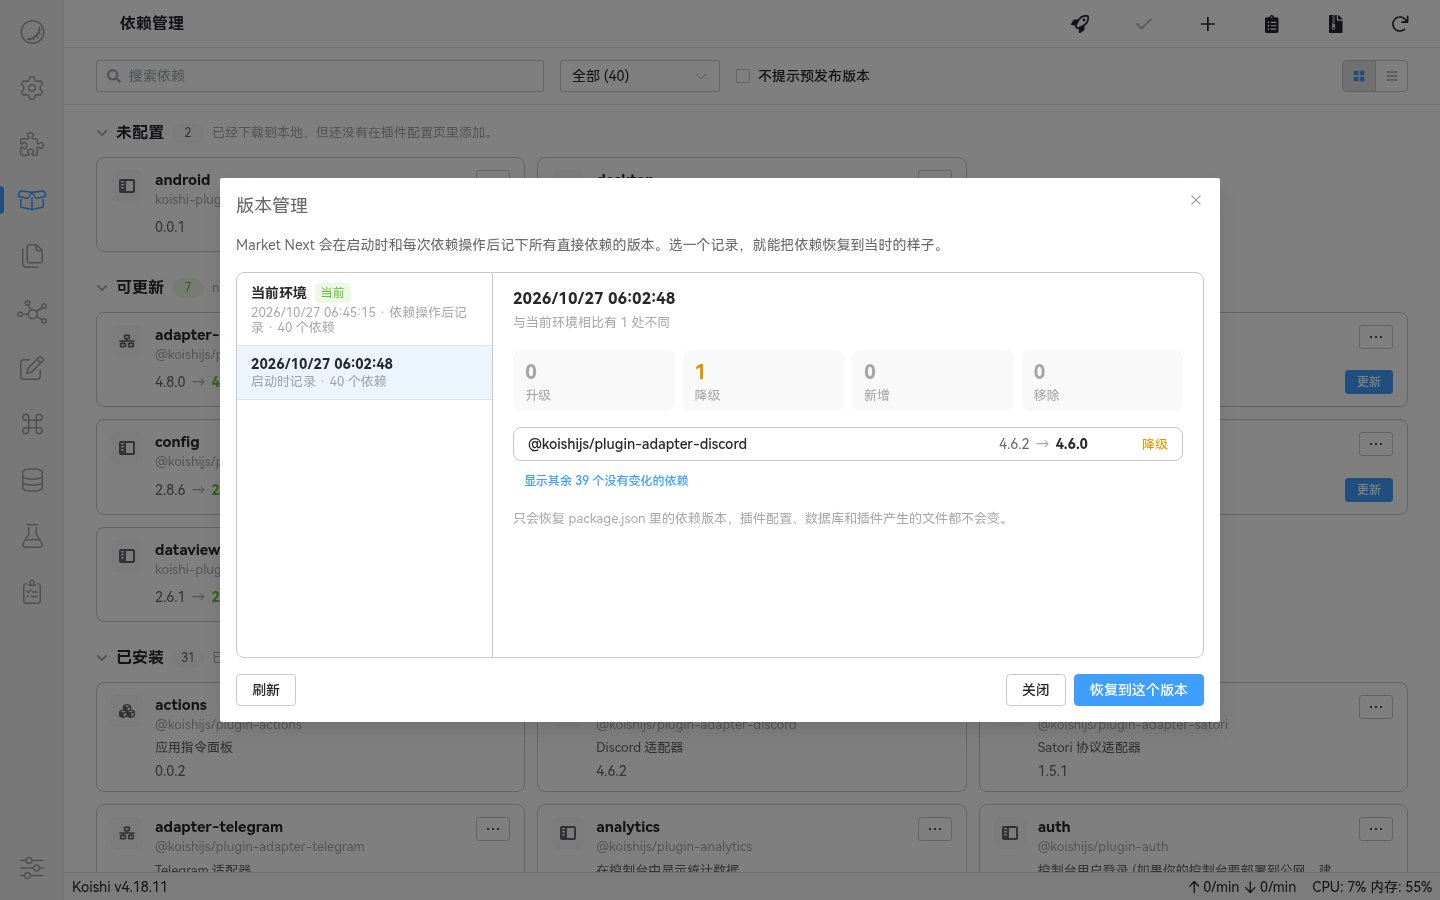
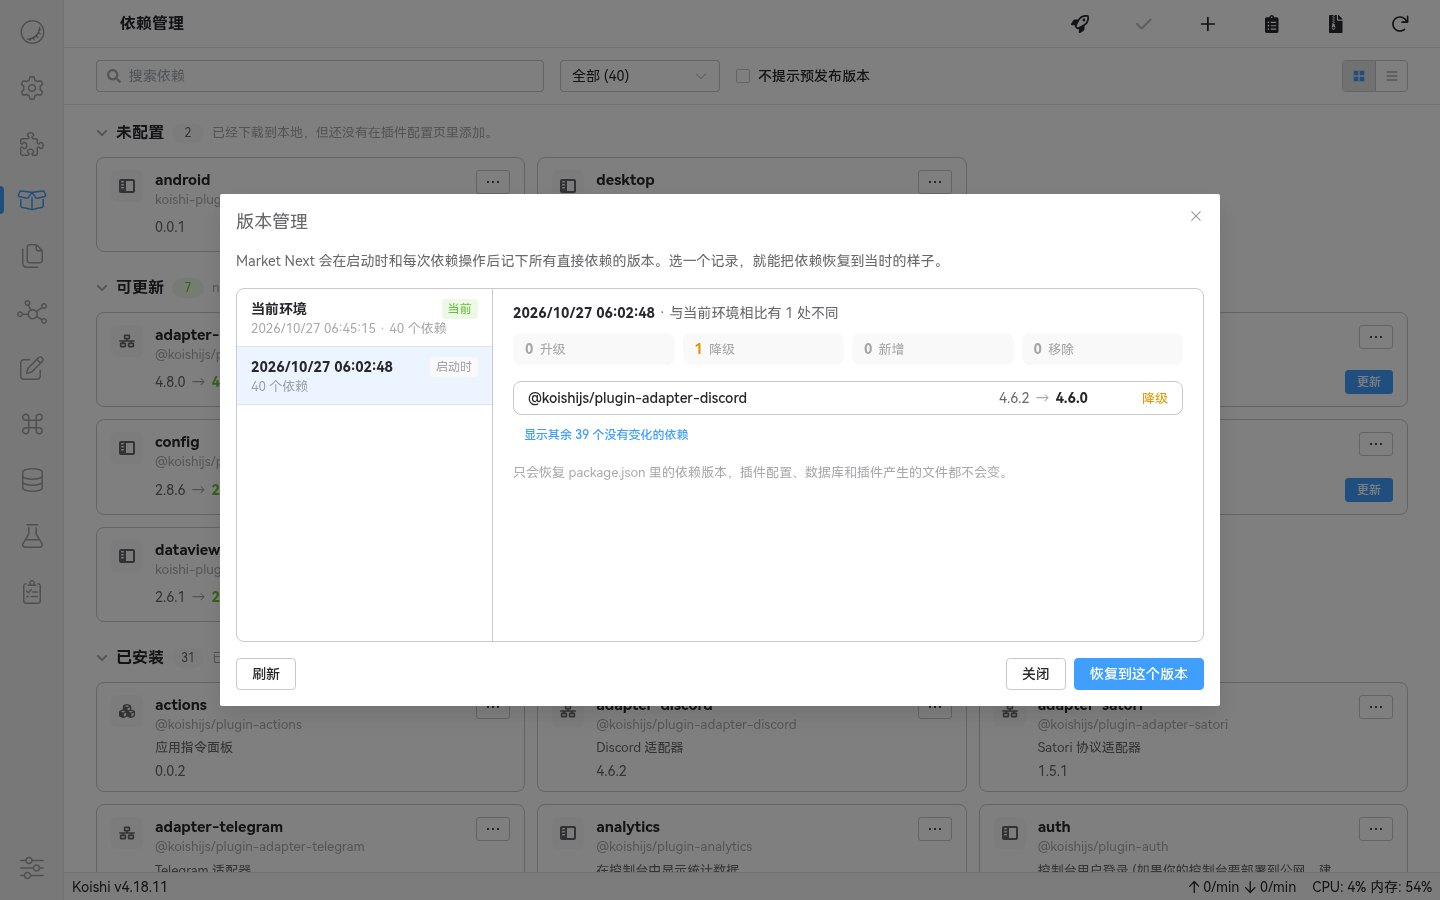
feat(config): 时间配置改用分钟、小时、秒，并统一版本管理的字号
- idleProbeDelay / idleProbeBootDelay / idleProbeInterval 改为 idleProbeDelayMinutes / idleProbeBootDelayMinutes / idleProbeIntervalHours，registry.timeout / search.timeout 改为 timeoutSeconds；后端在服务构造时换算回毫秒
- 启动时把旧的毫秒配置自动换算成新配置项并写回 koishi.yml，补充对应测试
- 版本管理：记录列表的来源改为标题右侧的短标签，每行固定两行高；详情标题不再放大，改为「日期 · 差异数量」；统计块改为一行
- 最近操作详情标题与列表同字号；README 同步更新配置说明

diff --git a/client/components/environment-versions.vue b/client/components/environment-versions.vue
@@ -27,12 +27,14 @@
             @click="selectSnapshot(snapshot.id)"
           >
             <span class="snapshot-title">
-              {{ snapshot.current ? t('environment.currentEnvironment') : formatDate(snapshot.createdAt) }}
-              <span v-if="snapshot.current" class="current-tag">{{ t('environment.current') }}</span>
+              <span class="snapshot-name">{{ snapshot.current ? t('environment.currentEnvironment') : formatDate(snapshot.createdAt) }}</span>
+              <span :class="['source-tag', { current: snapshot.current }]" :title="sourceText(snapshot.source)">
+                {{ snapshot.current ? t('environment.current') : sourceText(snapshot.source) }}
+              </span>
             </span>
             <span class="snapshot-meta">
               <template v-if="snapshot.current">{{ formatDate(snapshot.createdAt) }} · </template>
-              {{ sourceText(snapshot.source) }} · {{ t('environment.dependencies', { count: snapshot.dependencyCount }) }}
+              {{ t('environment.dependencies', { count: snapshot.dependencyCount }) }}
             </span>
           </button>
         </div>
@@ -43,11 +45,9 @@
           <div v-else-if="preview?.snapshot.current" class="environment-state">{{ t('environment.isCurrent') }}</div>
           <template v-else-if="preview">
             <header class="preview-header">
-              <h3>{{ formatDate(preview.snapshot.createdAt) }}</h3>
-              <p>
-                {{ t('environment.changedCount', { count: changedCount }) }}
-                <span v-if="preview.unsupportedCount" class="blocked"> · {{ t('environment.unsupportedCount', { count: preview.unsupportedCount }) }}</span>
-              </p>
+              <strong>{{ formatDate(preview.snapshot.createdAt) }}</strong>
+              · {{ t('environment.changedCount', { count: changedCount }) }}
+              <span v-if="preview.unsupportedCount" class="blocked"> · {{ t('environment.unsupportedCount', { count: preview.unsupportedCount }) }}</span>
             </header>
 
             <div class="change-stats">
@@ -273,7 +273,7 @@ function reasonText(reason: NonNullable<EnvironmentSnapshotChange['reason']>) {
   .environment-layout {
     display: grid;
     grid-template-columns: 16rem minmax(0, 1fr);
-    height: min(24rem, calc(100vh - 18rem));
+    height: min(22rem, calc(100vh - 18rem));
     border: 1px solid var(--k-color-border);
     border-radius: 8px;
     overflow: hidden;
@@ -310,8 +310,17 @@ function reasonText(reason: NonNullable<EnvironmentSnapshotChange['reason']>) {
   .snapshot-title {
     display: flex;
     align-items: center;
+    justify-content: space-between;
     gap: 0.5rem;
+    min-width: 0;
+  }
+
+  .snapshot-name {
+    min-width: 0;
+    overflow: hidden;
     font-weight: 600;
+    text-overflow: ellipsis;
+    white-space: nowrap;
   }
 
   .snapshot-meta {
@@ -319,14 +328,19 @@ function reasonText(reason: NonNullable<EnvironmentSnapshotChange['reason']>) {
     font-size: 0.8125rem;
   }
 
-  .current-tag {
+  .source-tag {
+    flex: 0 0 auto;
     border-radius: 4px;
     padding: 0 0.375rem;
-    color: var(--k-color-success);
-    background: color-mix(in srgb, var(--k-color-success) 12%, transparent);
+    color: var(--fg3);
+    background: var(--k-side-bg);
     font-size: 0.75rem;
-    font-weight: normal;
     line-height: 1.25rem;
+
+    &.current {
+      color: var(--k-color-success);
+      background: color-mix(in srgb, var(--k-color-success) 12%, transparent);
+    }
   }
 
   .snapshot-detail {
@@ -337,17 +351,11 @@ function reasonText(reason: NonNullable<EnvironmentSnapshotChange['reason']>) {
   }
 
   .preview-header {
-    margin-bottom: 1rem;
+    margin-bottom: 0.75rem;
+    color: var(--fg2);
 
-    h3 {
-      margin: 0;
-      font-size: 1rem;
-    }
-
-    p {
-      margin: 0.25rem 0 0;
-      color: var(--fg3);
-      font-size: 0.8125rem;
+    strong {
+      color: var(--fg1);
     }
 
     .blocked {
@@ -436,16 +444,17 @@ function reasonText(reason: NonNullable<EnvironmentSnapshotChange['reason']>) {
   }
 
   .change-stat {
-    display: grid;
-    gap: 0.125rem;
+    display: flex;
+    flex-wrap: wrap;
+    align-items: baseline;
+    gap: 0 0.375rem;
+    min-width: 0;
     border-radius: 8px;
     padding: 0.5rem 0.75rem;
     background: var(--k-side-bg);
 
     strong {
-      font-size: 1.25rem;
       font-variant-numeric: tabular-nums;
-      line-height: 1.4;
     }
 
     span {

diff --git a/src/node/config.ts b/src/node/config.ts
@@ -18,9 +18,9 @@ export interface Config {
   marketSilentRules?: MarketSilentRule[]
   marketSilentFilters?: string
   idleProbe?: boolean
-  idleProbeDelay?: number
-  idleProbeBootDelay?: number
-  idleProbeInterval?: number
+  idleProbeDelayMinutes?: number
+  idleProbeBootDelayMinutes?: number
+  idleProbeIntervalHours?: number
   bulkMode?: boolean
   removeConfig?: boolean
   updateIgnoredPackages?: string
@@ -99,9 +99,9 @@ export const Config: Schema<Config> = Schema.object({
     Schema.const('list').description('列表'),
   ]).role('radio').default('grid').description('Dependencies page layout.'),
   idleProbe: Schema.boolean().default(true).description('Run dependency and market metadata probes while Console is idle.'),
-  idleProbeDelay: Schema.number().role('time').default(Time.minute * 5).description('How long Console must stay idle before the background probe starts.'),
-  idleProbeBootDelay: Schema.number().role('time').default(Time.minute).description('Minimum delay after startup before idle probing is allowed.'),
-  idleProbeInterval: Schema.number().role('time').default(Time.hour * 6).description('Minimum interval between idle background probes.'),
+  idleProbeDelayMinutes: Schema.number().min(0).default(5).description('How long Console must stay idle before the background probe starts, in minutes.'),
+  idleProbeBootDelayMinutes: Schema.number().min(0).default(1).description('Minimum delay after startup before idle probing is allowed, in minutes.'),
+  idleProbeIntervalHours: Schema.number().min(0).default(6).description('Minimum interval between idle background probes, in hours.'),
   bulkMode: Schema.boolean().default(false).hidden().description('Batch operation mode for dependency changes.'),
   removeConfig: Schema.union([
     Schema.const(undefined).description('Ask every time'),
@@ -139,9 +139,9 @@ const configPatchKeys: Array<keyof Config> = [
   'marketSilentRules',
   'marketSilentFilters',
   'idleProbe',
-  'idleProbeDelay',
-  'idleProbeBootDelay',
-  'idleProbeInterval',
+  'idleProbeDelayMinutes',
+  'idleProbeBootDelayMinutes',
+  'idleProbeIntervalHours',
   'bulkMode',
   'removeConfig',
   'updateIgnoredPackages',
@@ -153,10 +153,20 @@ const configPatchKeys: Array<keyof Config> = [
 const configReloadKeys = new Set<keyof Config>([
   'logLevel',
   'idleProbe',
-  'idleProbeDelay',
-  'idleProbeBootDelay',
-  'idleProbeInterval',
+  'idleProbeDelayMinutes',
+  'idleProbeBootDelayMinutes',
+  'idleProbeIntervalHours',
 ])
+
+// Time options used to be stored in milliseconds. They are now stored in the
+// unit shown in the config page, and old keys are converted once on startup.
+const legacyTimeOptions: Array<[path: '' | 'registry' | 'search', from: string, to: string, unit: number]> = [
+  ['', 'idleProbeDelay', 'idleProbeDelayMinutes', Time.minute],
+  ['', 'idleProbeBootDelay', 'idleProbeBootDelayMinutes', Time.minute],
+  ['', 'idleProbeInterval', 'idleProbeIntervalHours', Time.hour],
+  ['registry', 'timeout', 'timeoutSeconds', Time.second],
+  ['search', 'timeout', 'timeoutSeconds', Time.second],
+]
 
 function findMarketNextConfigNode(plugins: any, currentConfig: Config): { parent: any, key: string, value: any } | undefined {
   let best: { parent: any, key: string, value: any, priority: number } | undefined
@@ -193,6 +203,18 @@ export function ensureMarketNextConfigDefaults(ctx: Context, currentConfig: Conf
   }
   if (Object.prototype.hasOwnProperty.call(target.value, 'marketLayout')) {
     delete target.value.marketLayout
+    changed = true
+  }
+  for (const [path, from, to, unit] of legacyTimeOptions) {
+    const raw = path ? target.value[path] : target.value
+    if (typeof raw?.[from] !== 'number') continue
+    const value = Math.max(0, Number((raw[from] / unit).toFixed(4)))
+    // 0 keeps its old meaning; other sub-second timeouts are rounded up to the schema minimum.
+    raw[to] ??= unit === Time.second && value > 0 ? Math.max(1, value) : value
+    delete raw[from]
+    // The running config was parsed before the conversion, so it only has the defaults.
+    const current = path ? currentConfig[path] ??= {} : currentConfig
+    current[to] = raw[to]
     changed = true
   }
   return changed

diff --git a/src/node/market.ts b/src/node/market.ts
@@ -53,6 +53,7 @@ class MarketProvider extends BaseMarketProvider {
   constructor(ctx: Context, public config: MarketProvider.Config = {}) {
     super(ctx)
     config.endpoint ||= DEFAULT_ENDPOINT
+    config.timeout = config.timeoutSeconds * Time.second
     this.endpoint = config.endpoint
     this.cache = new MarketDiskCache(ctx, config, {
       getEndpointCandidates: () => this.router.getEndpointCandidates(),
@@ -705,7 +706,7 @@ namespace MarketProvider {
 
   export const Config: Schema<Config> = Schema.object({
     endpoint: Schema.string().role('link').default(DEFAULT_ENDPOINT),
-    timeout: Schema.number().role('time').default(Time.second * 30),
+    timeoutSeconds: Schema.number().min(0).default(30),
     proxyAgent: Schema.string().role('link'),
     autoRoute: Schema.boolean().default(true),
     logLevel: Schema.union(logLevels.map(level => Schema.const(level))).default('warn'),

diff --git a/src/node/installer.ts b/src/node/installer.ts
@@ -101,6 +101,7 @@ class Installer extends Service {
 
   constructor(public ctx: Context, public config: Installer.Config = {}) {
     super(ctx, 'installer')
+    config.timeout = config.timeoutSeconds * Time.second
     this.manifest = loadManifest(this.cwd)
     this.metadata = new RegistryMetadata(ctx, config)
     this.installHistory = new InstallHistoryStore(ctx, config, name => this.depCache[name]?.resolved)
@@ -799,7 +800,7 @@ namespace Installer {
 
   export const Config: Schema<Config> = Schema.object({
     endpoint: Schema.string().role('link'),
-    timeout: Schema.number().role('time').default(Time.second * 5),
+    timeoutSeconds: Schema.number().min(0).default(5),
     autoRoute: Schema.boolean().default(true),
     retry: Schema.number().min(0).max(5).step(1).default(1),
     concurrency: Schema.number().min(1).max(16).step(1).default(4),

diff --git a/src/node/idle-probe.ts b/src/node/idle-probe.ts
@@ -21,9 +21,9 @@ export function setupIdleProbe(ctx: Context, config: Config) {
     clearTimeout(timer)
     timer = undefined
   }
-  const getDelay = () => Math.max(0, config.idleProbeDelay ?? Time.minute * 5)
-  const getBootDelay = () => Math.max(0, config.idleProbeBootDelay ?? Time.minute)
-  const getInterval = () => Math.max(0, config.idleProbeInterval ?? Time.hour * 6)
+  const getDelay = () => Math.max(0, config.idleProbeDelayMinutes ?? 5) * Time.minute
+  const getBootDelay = () => Math.max(0, config.idleProbeBootDelayMinutes ?? 1) * Time.minute
+  const getInterval = () => Math.max(0, config.idleProbeIntervalHours ?? 6) * Time.hour
 
   const runProbe = async () => {
     clearIdleTimer()

diff --git a/src/node/chatluna.ts b/src/node/chatluna.ts
@@ -45,7 +45,7 @@ export interface ChatLunaToolConfig {
   chatlunaTool?: boolean
   search?: {
     endpoint?: string
-    timeout?: number
+    timeoutSeconds?: number
     proxyAgent?: string
   }
 }
@@ -152,7 +152,7 @@ async function fetchIndex(ctx: Context, config: ChatLunaToolConfig): Promise<Mar
   const endpoint = resolveEndpoint(config)
   const http: HTTP = ctx.http.extend({
     endpoint,
-    timeout: config.search?.timeout ?? Time.second * 30,
+    timeout: (config.search?.timeoutSeconds ?? 30) * Time.second,
     proxyAgent: config.search?.proxyAgent,
   } as HTTP.Config)
   const result = await http.get<SearchResult>('')

diff --git a/client/components/market.vue b/client/components/market.vue
@@ -236,10 +236,8 @@ const loadingEndpoint = computed(() => {
 })
 
 const loadingTimeout = computed(() => {
-  const timeout = config.value.market?.search?.timeout
-  if (!timeout) return ''
-  if (typeof timeout === 'number') return timeout >= 1000 ? `${Math.round(timeout / 1000)}s` : `${timeout}ms`
-  return String(timeout)
+  const seconds = config.value.market?.search?.timeoutSeconds
+  return seconds ? `${seconds}s` : ''
 })
 
 const loadingAutoRoute = computed(() => config.value.market?.search?.autoRoute !== false)

diff --git a/src/node/chatluna-search.ts b/src/node/chatluna-search.ts
@@ -446,7 +446,7 @@ export function formatLoadError(endpoint: string, input: NormalizedSearchInput, 
     },
     results: [],
     nextQueries: [
-      'Check market.search.endpoint, market.search.timeout, proxyAgent, or current network connectivity.',
+      'Check market.search.endpoint, market.search.timeoutSeconds, proxyAgent, or current network connectivity.',
       'If a previous call had stale=true, use its cached results until the registry is reachable.',
     ],
   }

diff --git a/client/utils.ts b/client/utils.ts
@@ -30,9 +30,9 @@ export interface MarketNextConfigPatch extends UpdatePolicy {
   marketSilentRules?: MarketSilentRule[]
   marketSilentFilters?: string
   idleProbe?: boolean
-  idleProbeDelay?: number
-  idleProbeBootDelay?: number
-  idleProbeInterval?: number
+  idleProbeDelayMinutes?: number
+  idleProbeBootDelayMinutes?: number
+  idleProbeIntervalHours?: number
   bulkMode?: boolean
   removeConfig?: boolean
   bundleRecords?: Record<string, any>

diff --git a/src/node/market-internals.ts b/src/node/market-internals.ts
@@ -41,6 +41,8 @@ export type MarketSource = NonNullable<MarketPerformance['source']>
 
 export interface MarketProviderConfig {
   endpoint?: string
+  timeoutSeconds?: number
+  /** Milliseconds, derived from timeoutSeconds in the provider constructor. */
   timeout?: number
   proxyAgent?: string
   autoRoute?: boolean

diff --git a/src/node/installer-types.ts b/src/node/installer-types.ts
@@ -11,6 +11,8 @@ export const SELF_PACKAGE = 'koishi-plugin-market-next'
 
 export interface InstallerConfig {
   endpoint?: string
+  timeoutSeconds?: number
+  /** Milliseconds, derived from timeoutSeconds in the provider constructor. */
   timeout?: number
   autoRoute?: boolean
   retry?: number

diff --git a/client/components/install-history.vue b/client/components/install-history.vue
@@ -358,7 +358,7 @@ function formatSize(value: number) {
       align-items: center;
       gap: 0.5rem;
       margin: 0;
-      font-size: 1rem;
+      font-size: inherit;
     }
 
     p {
